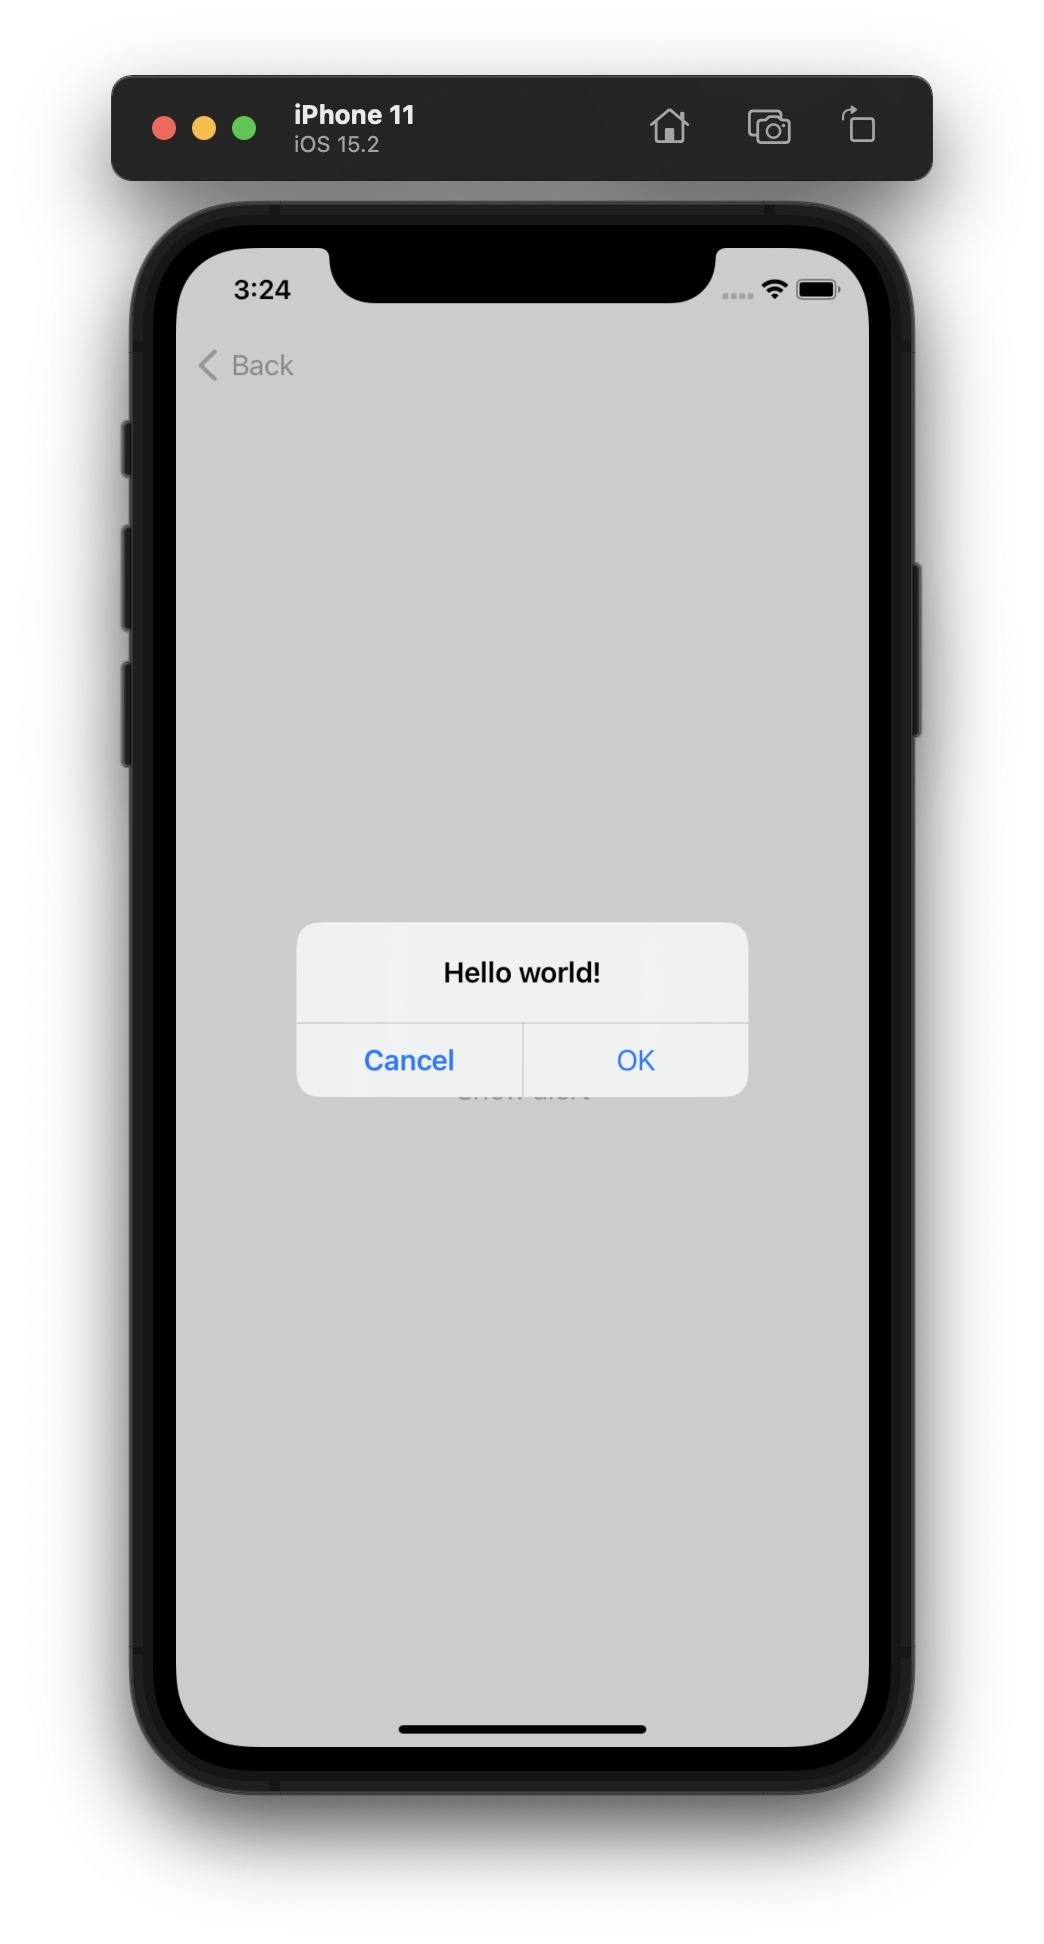
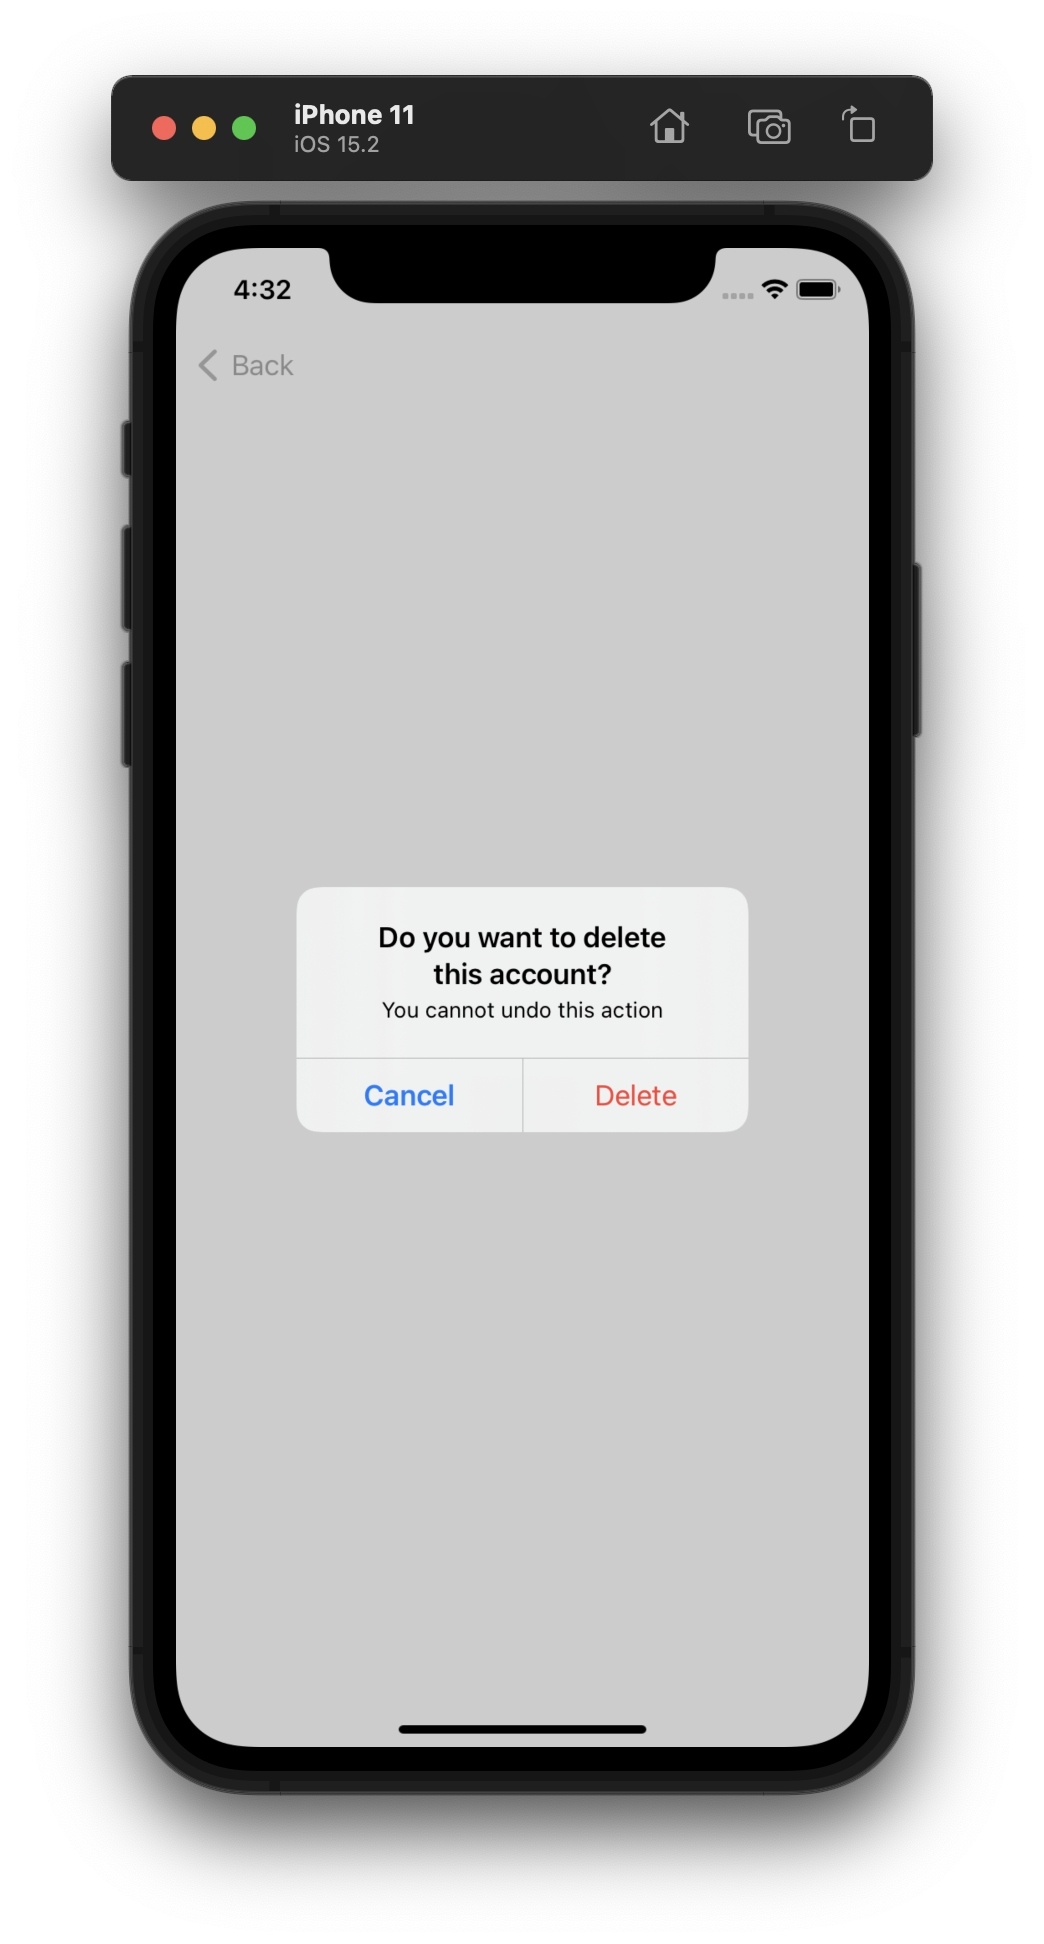
Renaming

Changed region(s): [[0.2759, 0.4321, 0.7356, 0.5864], [0.2146, 0.1235, 0.2759, 0.1543]]

diff --git a/Sources/SwiftUIAlertState/ConfirmationDialogState.swift b/Sources/SwiftUIAlertState/ConfirmationDialogState.swift
@@ -4,7 +4,7 @@ import SwiftUI
 @available(macOS 12, *)
 @available(tvOS 13, *)
 @available(watchOS 6, *)
-public struct ActionSheetState<Action> {
+public struct ConfirmationDialogState<Action> {
     public let id = UUID()
     public var buttons: [Button]
     public var message: TextState?
@@ -65,7 +65,7 @@ public struct ActionSheetState<Action> {
 @available(macOS 12, *)
 @available(tvOS 13, *)
 @available(watchOS 6, *)
-extension ActionSheetState: Equatable where Action: Equatable {
+extension ConfirmationDialogState: Equatable where Action: Equatable {
     public static func == (lhs: Self, rhs: Self) -> Bool {
         lhs.title == rhs.title
         && lhs.message == rhs.message
@@ -77,7 +77,7 @@ extension ActionSheetState: Equatable where Action: Equatable {
 @available(macOS 12, *)
 @available(tvOS 13, *)
 @available(watchOS 6, *)
-extension ActionSheetState: Hashable where Action: Hashable {
+extension ConfirmationDialogState: Hashable where Action: Hashable {
     public func hash(into hasher: inout Hasher) {
         hasher.combine(self.title)
         hasher.combine(self.message)
@@ -89,7 +89,7 @@ extension ActionSheetState: Hashable where Action: Hashable {
 @available(macOS 12, *)
 @available(tvOS 13, *)
 @available(watchOS 6, *)
-extension ActionSheetState: Identifiable {}
+extension ConfirmationDialogState: Identifiable {}
 
 extension View {
     /// Displays a dialog when the store's state becomes non-`nil`, and dismisses it when it becomes
@@ -104,8 +104,8 @@ extension View {
     @available(macOS 12, *)
     @available(tvOS 13, *)
     @available(watchOS 6, *)
-    @ViewBuilder public func actionSheet<Action>(
-        _ state: Binding<ActionSheetState<Action>?>,
+    @ViewBuilder public func confirmationDialog<Action>(
+        _ state: Binding<ConfirmationDialogState<Action>?>,
         send: @escaping (Action) -> Void,
         dismiss: Action
     ) -> some View {
@@ -133,7 +133,7 @@ extension View {
 // NB: Workaround for iOS 14 runtime crashes during iOS 15 availability checks.
 @available(iOS 15, macOS 12, tvOS 15, watchOS 8, *)
 private struct NewConfirmationDialogModifier<Action>: ViewModifier {
-    var state: Binding<ActionSheetState<Action>?>
+    var state: Binding<ConfirmationDialogState<Action>?>
     let send: (Action) -> Void
     let dismiss: Action
     
@@ -155,7 +155,7 @@ private struct NewConfirmationDialogModifier<Action>: ViewModifier {
 @available(tvOS 13, *)
 @available(watchOS 6, *)
 private struct OldConfirmationDialogModifier<Action>: ViewModifier {
-    @Binding var state: ActionSheetState<Action>?
+    @Binding var state: ConfirmationDialogState<Action>?
     let send: (Action) -> Void
     let dismiss: Action
     
@@ -170,7 +170,7 @@ private struct OldConfirmationDialogModifier<Action>: ViewModifier {
 @available(macOS 12, *)
 @available(tvOS 13, *)
 @available(watchOS 6, *)
-extension ActionSheetState {
+extension ConfirmationDialogState {
 #if compiler(>=5.5)
     @available(iOS 15, macOS 12, tvOS 15, watchOS 8, *)
     @ViewBuilder

diff --git a/SampleApp/SampleApp/ContentView.swift b/SampleApp/SampleApp/ContentView.swift
@@ -11,21 +11,21 @@ struct ContentView: View {
     var body: some View {
         NavigationView {
             List {
-                NavigationLink("SwiftUIAlert") {
-                    SwiftUIAlertView()
+                NavigationLink("AlertHostView") {
+                    AlertHostView()
                 }
-                NavigationLink("SwiftUIActionSheetView") {
-                    SwiftUIActionSheetView()
+                NavigationLink("ConfirmationDialogHostView") {
+                    ConfirmationDialogHostView()
                 }
-                NavigationLink("ComposableAlert") {
-                    ComposableAlertView(store: .init(
+                NavigationLink("ComposableAlertHostView") {
+                    ComposableAlertHostView(store: .init(
                         initialState: .init(),
                         reducer: appReducer,
                         environment: Void()
                     ))
                 }
-                NavigationLink("ComposableConfirmationDialog") {
-                    ComposableConfirmationDialog(store: .init(
+                NavigationLink("ComposableConfirmationDialogHostView") {
+                    ComposableConfirmationDialogHostView(store: .init(
                         initialState: .init(),
                         reducer: appReducer,
                         environment: Void()

diff --git a/SampleApp/SampleApp/Composable/ComposableConfirmationDialogHostView.swift b/SampleApp/SampleApp/Composable/ComposableConfirmationDialogHostView.swift
@@ -1,5 +1,5 @@
 //
-//  ComposableAlertView.swift
+//  ComposableConfirmationDialogHostView.swift
 //  SampleApp
 //
 //  Created by Sukhanov Evgeny on 10.01.2022.
@@ -8,25 +8,25 @@
 import SwiftUI
 import ComposableArchitecture
 
-struct ComposableAlertView: View {
+struct ComposableConfirmationDialogHostView: View {
     @State var store: Store<AppState, AppAction>
     
     var body: some View {
         WithViewStore(store) { viewStore in
             Button("Show alert") {
-                viewStore.send(.showAlert)
+                viewStore.send(.showConfirmationDialog)
             }
-            .alert(
-                store.scope(state: \.alertState),
+            .confirmationDialog(
+                store.scope(state: \.confirmationDialog),
                 dismiss: .alertAction(.dismiss)
             )
         }
     }
 }
 
-struct ComposableAlertView_Previews: PreviewProvider {
+struct ComposableConfirmationDialogHostView_Previews: PreviewProvider {
     static var previews: some View {
-        ComposableAlertView(store: .init(
+        ComposableConfirmationDialogHostView(store: .init(
             initialState: .init(),
             reducer: .empty,
             environment: Void()

diff --git a/SampleApp/SampleApp/Composable/ComposableAlertHostView.swift b/SampleApp/SampleApp/Composable/ComposableAlertHostView.swift
@@ -1,5 +1,5 @@
 //
-//  ComposableConfirmationDialog.swift
+//  ComposableAlertHostView.swift
 //  SampleApp
 //
 //  Created by Sukhanov Evgeny on 10.01.2022.
@@ -8,25 +8,25 @@
 import SwiftUI
 import ComposableArchitecture
 
-struct ComposableConfirmationDialog: View {
+struct ComposableAlertHostView: View {
     @State var store: Store<AppState, AppAction>
     
     var body: some View {
         WithViewStore(store) { viewStore in
             Button("Show alert") {
-                viewStore.send(.showConfirmationDialog)
+                viewStore.send(.showAlert)
             }
-            .confirmationDialog(
-                store.scope(state: \.confirmationDialog),
+            .alert(
+                store.scope(state: \.alertState),
                 dismiss: .alertAction(.dismiss)
             )
         }
     }
 }
 
-struct ComposableConfirmationDialog_Previews: PreviewProvider {
+struct ComposableAlertView_Previews: PreviewProvider {
     static var previews: some View {
-        ComposableAlertView(store: .init(
+        ComposableAlertHostView(store: .init(
             initialState: .init(),
             reducer: .empty,
             environment: Void()

diff --git a/SampleApp/SampleApp/Custom/ConfirmationDialogHostView.swift b/SampleApp/SampleApp/Custom/ConfirmationDialogHostView.swift
@@ -1,0 +1,39 @@
+//
+//  ConfirmationDialogHostView.swift
+//  SampleApp
+//
+//  Created by Sukhanov Evgeny on 10.01.2022.
+//
+
+import SwiftUI
+import SwiftUIAlertState
+
+struct ConfirmationDialogHostView: View {
+    @State var confirmationDialogState: ConfirmationDialogState<AlertAction>?
+    
+    var body: some View {
+        Button("Show confirmation dialog") {
+            confirmationDialogState = .init(
+                title: "Like out app?",
+                titleVisibility: .visible,
+                message: "Would you like to rate our app?\nThanks for using our app.",
+                buttons: [
+                    .destructive("Like", action: .send(.like)),
+                    .default("Not now", action: .send(.notNow)),
+                    .cancel("Cancel", action: .send(.cancel))
+                ]
+            )
+        }
+        .confirmationDialog(
+            $confirmationDialogState,
+            send: { action in print(action) },
+            dismiss: .dismiss
+        )
+    }
+}
+
+struct ConfirmationDialogHostView_Previews: PreviewProvider {
+    static var previews: some View {
+        ConfirmationDialogHostView()
+    }
+}

diff --git a/SampleApp/SampleApp/Custom/AlertHostView.swift b/SampleApp/SampleApp/Custom/AlertHostView.swift
@@ -1,5 +1,5 @@
 //
-//  ContentView.swift
+//  AlertHostView.swift
 //  SampleApp
 //
 //  Created by Sukhanov Evgeny on 10.01.2022.
@@ -8,17 +8,17 @@
 import SwiftUI
 import SwiftUIAlertState
 
-struct SwiftUIAlertView: View {
+struct AlertHostView: View {
     @State var alertState: AlertState<AlertAction>?
     
     var body: some View {
         Button("Show alert") {
             alertState = .init(
-                title: "Hello world!",
-                message: nil,
+                title: "Do you want to delete this account?",
+                message: "You cannot undo this action",
                 buttons: [
                     .cancel("Cancel", action: .send(.cancel)),
-                    .default("OK", action: .send(.ok))
+                    .destructive("Delete", action: .send(.delete))
                 ]
             )
         }
@@ -32,6 +32,6 @@ struct SwiftUIAlertView: View {
 
 struct SwiftUIAlertView_Previews: PreviewProvider {
     static var previews: some View {
-        SwiftUIAlertView()
+        AlertHostView()
     }
 }

diff --git a/SampleApp/SampleApp/AlertAction.swift b/SampleApp/SampleApp/AlertAction.swift
@@ -1,5 +1,5 @@
 //
-//  AlertExample.swift
+//  AlertAction.swift
 //  SampleApp
 //
 //  Created by Sukhanov Evgeny on 10.01.2022.
@@ -10,6 +10,9 @@ enum AlertAction {
     case possible
     case no
     case cancel
+    case like
+    case notNow
     case dismiss
+    case delete
 }
 

diff --git a/README.md b/README.md
@@ -1,19 +1,19 @@
-# Data driven alert and action sheet
+# Data driven alert and confirmation dialog
 Based on [Composable Architecture](https://github.com/pointfreeco/swift-composable-architecture)
 
 ## AlertState
 ```swift
-struct SwiftUIAlertView: View {
+struct AlertHostView: View {
     @State var alertState: AlertState<AlertAction>?
     
     var body: some View {
         Button("Show alert") {
             alertState = .init(
-                title: "Hello world!",
-                message: nil,
+                title: "Do you want to delete this account?",
+                message: "You cannot undo this action",
                 buttons: [
                     .cancel("Cancel", action: .send(.cancel)),
-                    .default("OK", action: .send(.ok))
+                    .destructive("Delete", action: .send(.delete))
                 ]
             )
         }
@@ -28,30 +28,30 @@ struct SwiftUIAlertView: View {
 <img src="Resources/Alert.png" width="400"/>
 
 
-## ActionSheetState
+## ConfirmationDialogState
 ```swift
-struct SwiftUIActionSheetView: View {
-    @State var actionSheetState: ActionSheetState<AlertAction>?
+struct ConfirmationDialogHostView: View {
+    @State var confirmationDialogState: ConfirmationDialogState<AlertAction>?
     
     var body: some View {
-        Button("Show action sheet") {
-            actionSheetState = .init(
-                title: "Hello world!",
-                message: nil,
+        Button("Show confirmation dialog") {
+            confirmationDialogState = .init(
+                title: "Like out app?",
+                titleVisibility: .visible,
+                message: "Would you like to rate our app?\nThanks for using our app.",
                 buttons: [
-                    .default("OK", action: .send(.ok)),
-                    .default("I am not sure", action: .send(.possible)),
-                    .destructive("No no no", action: .send(.no)),
+                    .destructive("Like", action: .send(.like)),
+                    .default("Not now", action: .send(.notNow)),
                     .cancel("Cancel", action: .send(.cancel))
                 ]
             )
         }
-        .actionSheet(
-            $actionSheetState,
+        .confirmationDialog(
+            $confirmationDialogState,
             send: { action in print(action) },
             dismiss: .dismiss
         )
     }
 }
 ```
-<img src="Resources/ActionSheet.png" width="400"/>
+<img src="Resources/ConfirmationDialog.png" width="400"/>
